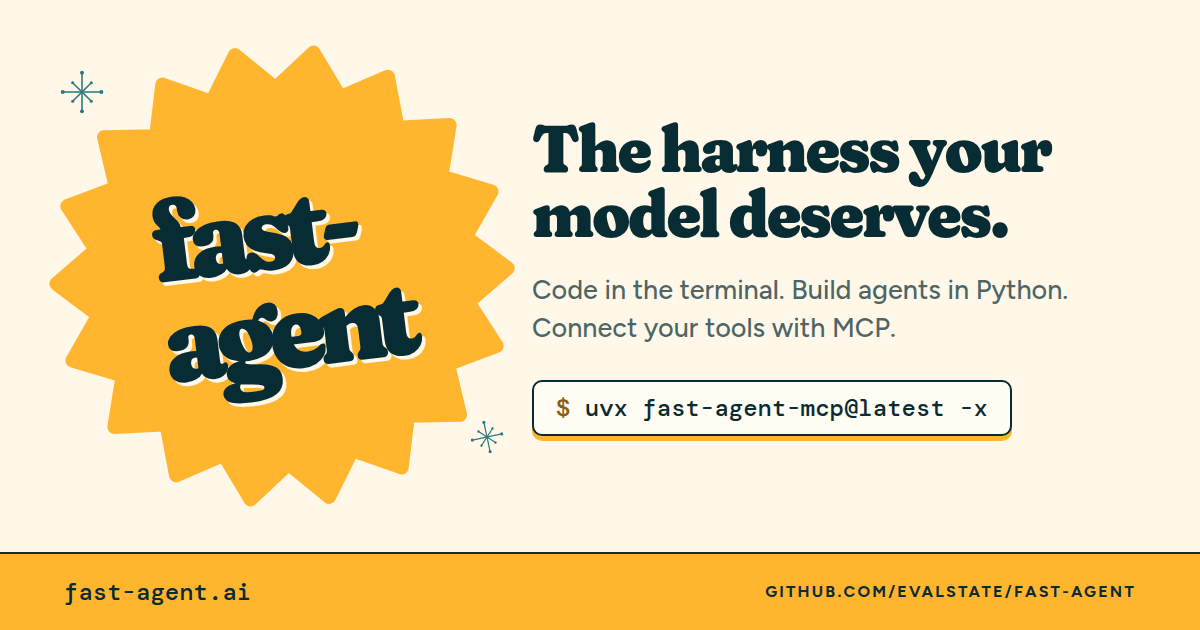
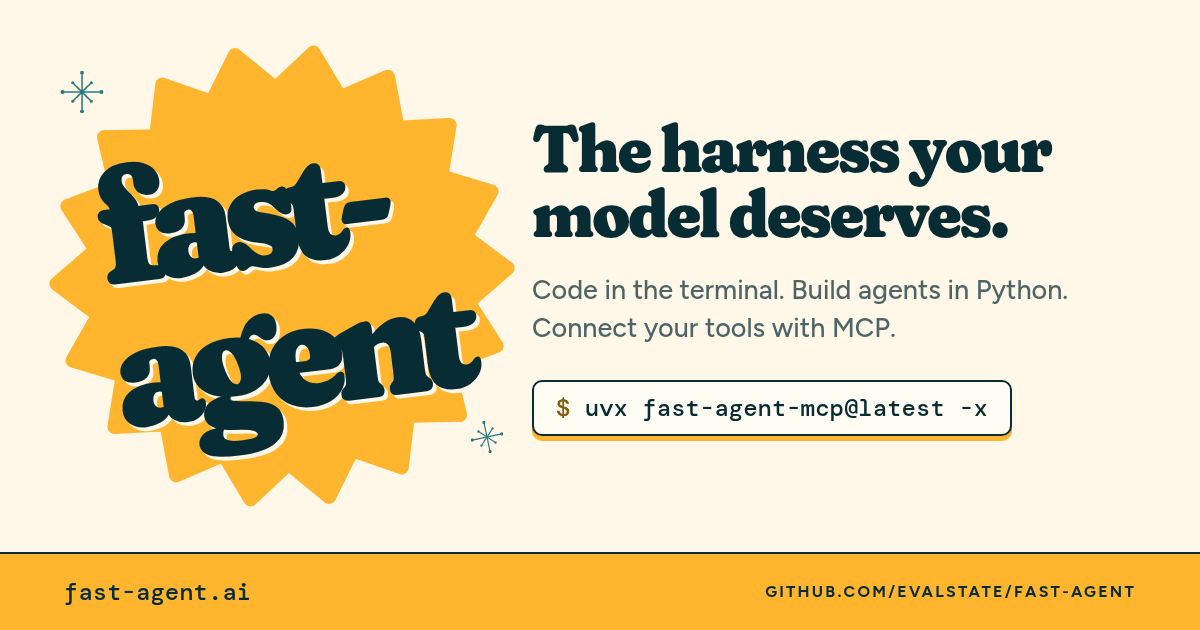
docs: larger fast-agent wordmark on the homepage social card

diff --git a/docs/social_cards/contact-sheet.html b/docs/social_cards/contact-sheet.html
@@ -554,7 +554,7 @@
                       <div><dt>Badge</dt><dd>DOCS</dd></div>
                       <div><dt>Theme</dt><dd>hero / ivory</dd></div>
                       <div><dt>Status</dt><dd><span class="pill">ok</span></dd></div>
-                      <div><dt>Size</dt><dd>1200×630 · 31 KB</dd></div>
+                      <div><dt>Size</dt><dd>1200×630 · 36 KB</dd></div>
                     </dl>
                   </div>
                 </article>

diff --git a/docs/social_cards/styles.css b/docs/social_cards/styles.css
@@ -154,7 +154,7 @@ html, body { margin: 0; padding: 0; }
   position: relative;
   margin: 0;
   color: var(--petrol);
-  font: 900 118px/0.86 var(--font-voice);
+  font: 900 168px/0.86 var(--font-voice);
   font-variation-settings: var(--voice-settings);
   letter-spacing: -0.065em;
   text-shadow: 3px 4px 0 var(--ivory);
